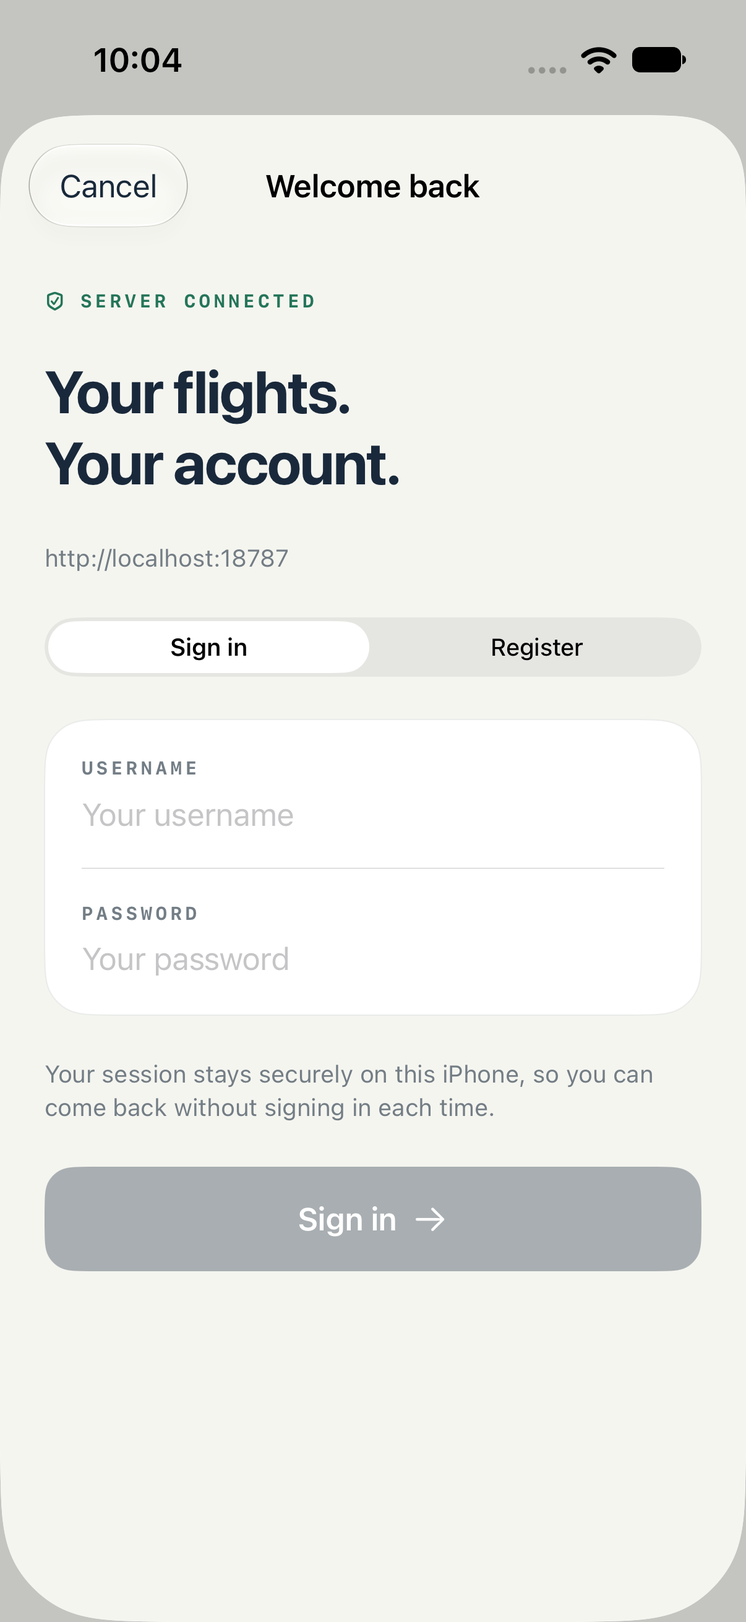
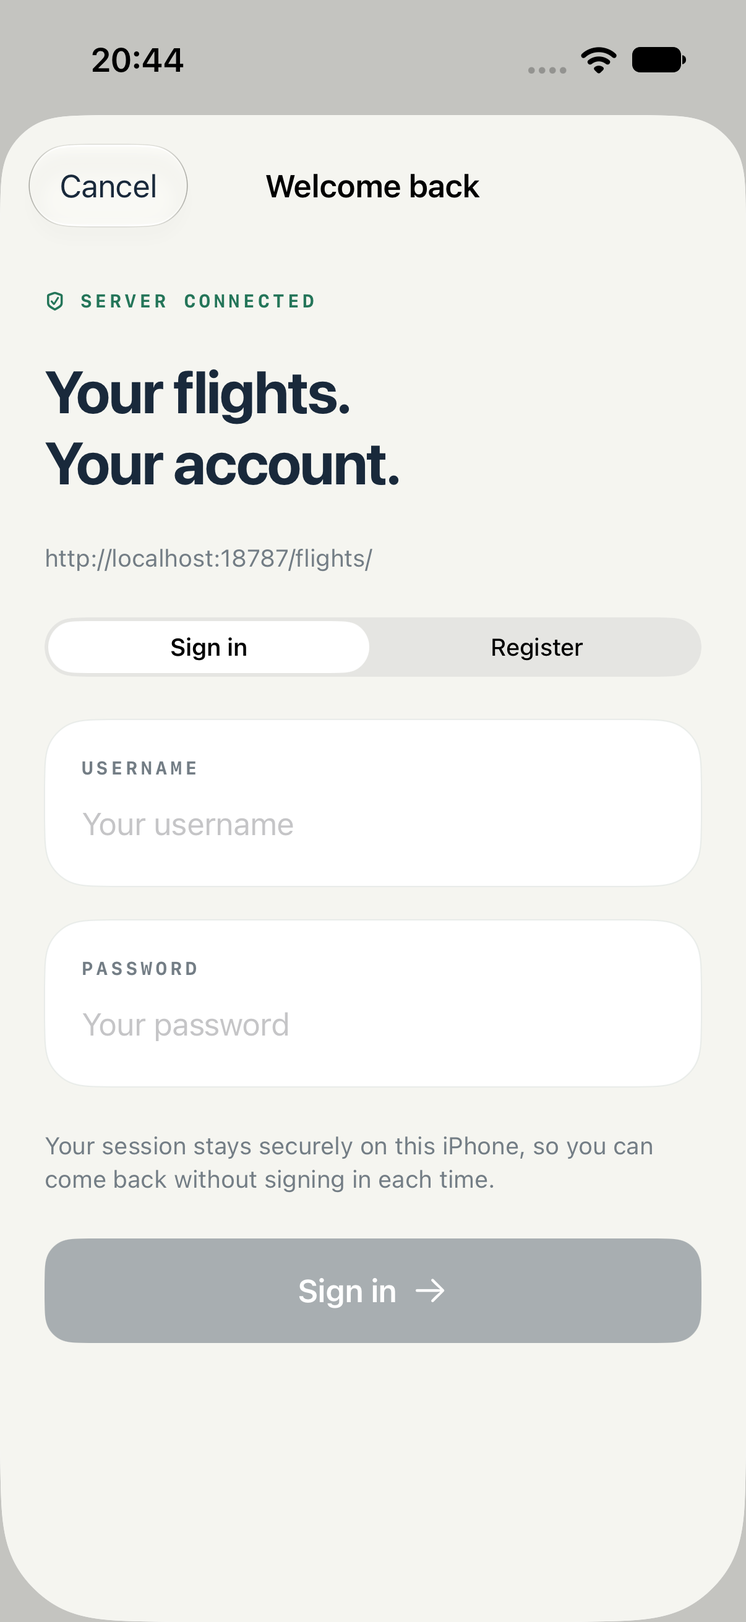
Unify input cards and show airplane feedback during calendar imports

diff --git a/app/FlightDeck/CalendarViews.swift b/app/FlightDeck/CalendarViews.swift
@@ -91,6 +91,9 @@ struct CalendarSuggestionsView: View {
     @Environment(FlightStore.self) private var store
     @Environment(CalendarImportStore.self) private var calendar
     @Environment(\.dismiss) private var dismiss
+    @State private var importingJourneyID: String?
+    @State private var addingAll = false
+    private var busy: Bool { calendar.isImporting || importingJourneyID != nil || addingAll }
     var body: some View {
         NavigationStack {
             ScrollView {
@@ -102,7 +105,7 @@ struct CalendarSuggestionsView: View {
                         Text("No new flights found in the next six months. Already tracked and dismissed flights are excluded.")
                             .font(.subheadline).foregroundStyle(Deck.muted).accessibilityIdentifier("noCalendarFlightSuggestions")
                     } else {
-                        Text("Review your flights below. Dismiss a flight to stop future suggestions. Connections use your calendar’s times.")
+                        Text("Review your flights below. Dismiss a journey to stop future suggestions. Connections use your calendar’s times.")
                             .font(.subheadline).foregroundStyle(Deck.muted)
                     }
                     ForEach(calendar.journeys) { journey in
@@ -114,27 +117,31 @@ struct CalendarSuggestionsView: View {
                                     .font(.caption).foregroundStyle(Deck.muted).accessibilityIdentifier("dismissJourney-\(journey.flights[0].flightNumber)")
                             }
                             ForEach(journey.flights) { flight in
-                                HStack(alignment:.top,spacing:12) {
-                                    VStack(alignment:.leading,spacing:6) {
+                                VStack(alignment:.leading,spacing:6) {
                                         Text(flight.flightNumber).font(.system(size:19,weight:.semibold,design:.monospaced))
                                         Text("To \(flight.destination)").font(.subheadline.weight(.medium))
                                         Text(flight.timeLabel).font(.caption).foregroundStyle(Deck.muted)
                                         Text("\(flight.timeZoneID) · \(flight.calendarTitle)").font(.system(size:10)).foregroundStyle(Deck.muted)
-                                    }
-                                    Spacer(minLength:0)
-                                    Button { calendar.dismiss([flight]) } label: { Image(systemName:"xmark.circle").foregroundStyle(Deck.muted) }
-                                        .accessibilityLabel("Don’t suggest \(flight.flightNumber) again")
-                                        .accessibilityIdentifier("dismissCalendar-\(flight.flightNumber)")
-                                }
+                                }.frame(maxWidth:.infinity,alignment:.leading)
                             }
                             Button {
-                                Task { if await calendar.add([journey],to:store),calendar.suggestions.isEmpty { dismiss() } }
+                                guard !busy else { return }
+                                importingJourneyID = journey.id
+                                Task {
+                                    defer { importingJourneyID = nil }
+                                    if await calendar.add([journey],to:store),calendar.suggestions.isEmpty { dismiss() }
+                                }
                             } label: {
-                                Label(journey.flights.count>1 ? "Add connected trip":"Add flight",systemImage:"plus")
+                                HStack(spacing:8) {
+                                    if importingJourneyID == journey.id { PlaneActivityIndicator() }
+                                    else { Image(systemName:"plus") }
+                                    Text(importingJourneyID == journey.id ? (journey.flights.count>1 ? "Adding trip…":"Adding flight…"):
+                                        (journey.flights.count>1 ? "Add connected trip":"Add flight"))
+                                }
                                     .font(.subheadline.weight(.semibold)).frame(maxWidth:.infinity).padding(14)
                                     .background(Deck.ink,in:RoundedRectangle(cornerRadius:14)).foregroundStyle(.white)
                             }.accessibilityIdentifier("addCalendarJourney-\(journey.flights[0].flightNumber)")
-                        }.deckCard().disabled(calendar.isImporting)
+                        }.deckCard().disabled(busy)
                     }
                     if let error = calendar.error { Text(error).font(.footnote).foregroundStyle(Deck.orange) }
                     if !calendar.suggestions.isEmpty {
@@ -144,20 +151,25 @@ struct CalendarSuggestionsView: View {
                 }.padding(24)
             }.background(Deck.paper).foregroundStyle(Deck.ink)
                 .navigationTitle("Calendar flights").navigationBarTitleDisplayMode(.inline)
-                .toolbar { ToolbarItem(placement:.topBarLeading) { Button(calendar.suggestions.isEmpty ? "Done":"Later") { dismiss() }.disabled(calendar.isImporting) } }
+                .toolbar { ToolbarItem(placement:.topBarLeading) { Button(calendar.suggestions.isEmpty ? "Done":"Later") { dismiss() }.disabled(busy) } }
                 .safeAreaInset(edge:.bottom) {
-                    if calendar.suggestions.count>1 {
+                    if calendar.suggestions.count>1 || addingAll {
                         Button {
+                            guard !busy else { return }
                             let journeys = calendar.journeys
-                            Task { if await calendar.add(journeys,to:store) { dismiss() } }
+                            addingAll = true
+                            Task {
+                                defer { addingAll = false }
+                                if await calendar.add(journeys,to:store) { dismiss() }
+                            }
                         } label: {
                             HStack {
-                                if calendar.isImporting { ProgressView().tint(.white) }
-                                Text(calendar.isImporting ? "Adding flights…":"Add all \(calendar.suggestions.count) flights").fontWeight(.semibold)
+                                if addingAll { PlaneActivityIndicator() }
+                                Text(addingAll ? "Adding flights…":"Add all \(calendar.suggestions.count) flights").fontWeight(.semibold)
                             }.frame(maxWidth:.infinity).padding(18).foregroundStyle(.white).background(Deck.ink,in:RoundedRectangle(cornerRadius:16))
-                        }.disabled(calendar.isImporting).padding(20).background(Deck.paper).accessibilityIdentifier("addAllCalendarFlights")
+                        }.disabled(busy).padding(20).background(Deck.paper).accessibilityIdentifier("addAllCalendarFlights")
                     }
-                }.interactiveDismissDisabled(calendar.isImporting)
+                }.interactiveDismissDisabled(busy)
         }
     }
 }

diff --git a/app/FlightDeckUITests/FlightDeckUITests.swift b/app/FlightDeckUITests/FlightDeckUITests.swift
@@ -148,7 +148,7 @@ final class FlightDeckUITests: XCTestCase {
     }
     func testCalendarSuggestionsDismissalImportAndManualSearchPersist() {
         let app = XCUIApplication()
-        app.launchArguments = ["--uitesting","--uitesting-calendar","--uitesting-calendar-reset"];app.launch()
+        app.launchArguments = ["--uitesting","--uitesting-calendar","--uitesting-calendar-reset","--uitesting-calendar-loading"];app.launch()
         XCTAssertTrue(app.buttons["addFlight"].waitForExistence(timeout:10))
         app.tabBars.buttons["Settings"].tap()
         let settings = app.buttons["calendarImportSettings"]
@@ -165,14 +165,20 @@ final class FlightDeckUITests: XCTestCase {
         app.buttons["reviewCalendarSuggestions"].tap()
         XCTAssertTrue(app.staticTexts["2 CONNECTED FLIGHTS"].waitForExistence(timeout:5))
         capture("Review calendar connections",app)
-        let declined = app.buttons["dismissCalendar-LH1189"]
+        XCTAssertFalse(app.buttons["dismissCalendar-LH2055"].exists)
+        let declined = app.buttons["dismissJourney-LH1189"]
         for _ in 0..<4 where !declined.isHittable { app.swipeUp() }
         XCTAssertTrue(declined.isHittable);declined.tap()
         let add = app.buttons["addCalendarJourney-LH2055"]
         for _ in 0..<4 where !add.isHittable { app.swipeDown() }
         add.tap()
+        XCTAssertTrue(add.label.contains("Adding trip"))
+        XCTAssertFalse(add.isEnabled)
+        XCTAssertFalse(app.buttons["dismissJourney-LH2055"].isEnabled)
+        capture("Calendar import in progress",app)
+        XCTAssertTrue(add.waitForNonExistence(timeout:10))
         XCTAssertTrue(app.buttons["addFlight"].waitForExistence(timeout:10))
-        XCTAssertFalse(app.buttons["reviewCalendarSuggestions"].exists)
+        XCTAssertTrue(app.buttons["reviewCalendarSuggestions"].waitForNonExistence(timeout:10))
         app.terminate()
         app.launchArguments = ["--uitesting-preserve","--uitesting-calendar"];app.launch()
         XCTAssertTrue(app.buttons["addFlight"].waitForExistence(timeout:10))
@@ -192,7 +198,30 @@ final class FlightDeckUITests: XCTestCase {
         search.tap()
         XCTAssertTrue(app.staticTexts["LH1189"].waitForExistence(timeout:10))
         XCTAssertFalse(app.staticTexts["LH2055"].exists)
-        app.buttons["dismissCalendar-LH1189"].tap()
+        app.buttons["dismissJourney-LH1189"].tap()
+        app.buttons["Done"].tap()
+    }
+    func testCalendarBulkImportShowsProgressAndDisablesActions() {
+        let app = XCUIApplication()
+        app.launchArguments = ["--uitesting","--uitesting-calendar","--uitesting-calendar-reset","--uitesting-calendar-loading"];app.launch()
+        XCTAssertTrue(app.buttons["addFlight"].waitForExistence(timeout:10))
+        app.tabBars.buttons["Settings"].tap()
+        let settings = app.buttons["calendarImportSettings"]
+        for _ in 0..<3 where !settings.isHittable { app.swipeUp() }
+        settings.tap()
+        XCTAssertTrue(app.switches["calendar-fixture"].waitForExistence(timeout:10))
+        app.switches["calendar-fixture"].tap()
+        app.buttons["searchCalendarFlights"].tap()
+        let add = app.buttons["addAllCalendarFlights"]
+        XCTAssertTrue(add.waitForExistence(timeout:10))
+        add.tap()
+        XCTAssertTrue(add.label.contains("Adding flights"))
+        XCTAssertFalse(add.isEnabled)
+        XCTAssertFalse(app.buttons["dismissJourney-LH2055"].isEnabled)
+        capture("Bulk calendar import in progress",app)
+        XCTAssertTrue(add.waitForNonExistence(timeout:10))
+        app.buttons["searchCalendarFlights"].tap()
+        XCTAssertTrue(app.staticTexts["noCalendarFlightSuggestions"].waitForExistence(timeout:10))
         app.buttons["Done"].tap()
     }
     func testPublishedScheduleShowsRouteWithoutClaimingLiveStatus() {

diff --git a/app/FlightDeck/AccountViews.swift b/app/FlightDeck/AccountViews.swift
@@ -34,20 +34,17 @@ struct AccountAccessView: View {
                                 }.pickerStyle(.segmented).accessibilityIdentifier("accountMode")
                             }
                             VStack(alignment:.leading,spacing:18) {
-                                VStack(alignment:.leading,spacing:8) {
-                                    Text("USERNAME").eyebrow().foregroundStyle(Deck.muted)
+                                DeckField("USERNAME") {
                                     TextField("Your username",text:$username).textContentType(.username)
                                         .textInputAutocapitalization(.never).autocorrectionDisabled()
                                         .focused($focused,equals:"username").accessibilityIdentifier("accountUsername")
-                                }
-                                Divider()
-                                VStack(alignment:.leading,spacing:8) {
-                                    Text("PASSWORD").eyebrow().foregroundStyle(Deck.muted)
+                                }.deckCard().onTapGesture { focused = "username" }
+                                DeckField("PASSWORD") {
                                     SecureField(registering ? "At least 12 characters":"Your password",text:$password)
                                         .textContentType(.password).textInputAutocapitalization(.never).autocorrectionDisabled()
                                         .focused($focused,equals:"password").accessibilityIdentifier("accountPassword")
-                                }
-                            }.deckCard()
+                                }.deckCard().onTapGesture { focused = "password" }
+                            }
                             if registering {
                                 Text("Choose a username with 3–32 letters, numbers, dots, underscores or hyphens, and a password with 12–128 characters. This account belongs to this server.")
                                     .font(.footnote).foregroundStyle(Deck.muted)
@@ -126,11 +123,10 @@ struct APIKeyForm: View {
                     Link("Open My AeroAPI ↗",destination:URL(string:"https://www.flightaware.com/aeroapi/portal/")!)
                         .font(.system(size:13,weight:.semibold)).foregroundStyle(Deck.ink)
                 }.deckCard()
-                VStack(alignment:.leading,spacing:10) {
-                    Text("AEROAPI KEY").eyebrow().foregroundStyle(Deck.muted)
+                DeckField("AEROAPI KEY") {
                     SecureField("Paste your API key",text:$key).textInputAutocapitalization(.never).autocorrectionDisabled()
                         .focused($focused).accessibilityIdentifier("providerAPIKey")
-                }.deckCard()
+                }.deckCard().onTapGesture { focused = true }
                 Label("Your key is encrypted on \(URL(string:store.address)?.host ?? "your server") and is never sent back to the app. Use a server operator you trust.",systemImage:"lock.shield")
                     .font(.footnote).foregroundStyle(Deck.muted).fixedSize(horizontal:false,vertical:true)
                 Text("API requests use your own FlightAware account. FlightDeck keeps a conservative monthly safety budget; replacing a key does not reset usage.")

diff --git a/app/FlightDeck/StartView.swift b/app/FlightDeck/StartView.swift
@@ -46,13 +46,13 @@ struct ServerConnectionForm: View {
     @FocusState private var focused: Bool
     var body: some View {
         VStack(alignment:.leading,spacing:18) {
-            Text("SERVER URL").eyebrow().foregroundStyle(Deck.muted)
-            TextField("Server URL",text:$address,prompt:Text("Server URL").foregroundStyle(Color(uiColor:.placeholderText)))
-                .textFieldStyle(.roundedBorder).font(.body).frame(minHeight:44)
-                .textContentType(.URL).keyboardType(.URL)
-                .focused($focused).textInputAutocapitalization(.never).autocorrectionDisabled()
-                .accessibilityLabel("Server URL").accessibilityIdentifier("serverAddress")
-                .submitLabel(.go).onSubmit { connect() }
+            DeckField("SERVER URL") {
+                TextField("Server URL",text:$address,prompt:Text("Server URL").foregroundStyle(Color(uiColor:.placeholderText)))
+                    .font(.body).textContentType(.URL).keyboardType(.URL)
+                    .focused($focused).textInputAutocapitalization(.never).autocorrectionDisabled()
+                    .accessibilityLabel("Server URL").accessibilityIdentifier("serverAddress")
+                    .submitLabel(.go).onSubmit { connect() }
+            }.deckCard().onTapGesture { focused = true }
             Button { connect() } label: {
                 HStack {
                     if connecting { ProgressView().tint(.white) }
@@ -64,7 +64,7 @@ struct ServerConnectionForm: View {
             if let error { Text(error).font(.footnote).foregroundStyle(Deck.orange) }
             Text("Connect to your own server or one you trust, then sign in or create an account. Ports and paths such as /flights are supported. HTTPS is added if omitted; a private certificate must be trusted on your phone.")
                 .font(.system(size:11)).foregroundStyle(Deck.muted).fixedSize(horizontal:false,vertical:true)
-        }.deckCard()
+        }
             .sheet(isPresented:$showingLogin,onDismiss:{ store.enterAccount() }) {
                 if let server { AccountAccessView(address:address,server:server) }
             }

diff --git a/app/FlightDeck/Design.swift b/app/FlightDeck/Design.swift
@@ -17,6 +17,35 @@ extension View {
     func eyebrow() -> some View { self.font(.system(size:10,weight:.bold,design:.monospaced)).tracking(1.8) }
 }
 
+struct DeckField<Content: View>: View {
+    let title: String
+    let content: Content
+    init(_ title: String, @ViewBuilder content: () -> Content) {
+        self.title = title;self.content = content()
+    }
+    var body: some View {
+        VStack(alignment:.leading,spacing:10) {
+            Text(title).eyebrow().foregroundStyle(Deck.muted)
+            content.textFieldStyle(.plain).frame(minHeight:28,alignment:.leading)
+        }.contentShape(Rectangle())
+    }
+}
+
+struct PlaneActivityIndicator: View {
+    @Environment(\.accessibilityReduceMotion) private var reduceMotion
+    var body: some View {
+        TimelineView(.animation(minimumInterval:1.0/30,paused:reduceMotion)) { context in
+            let phase = reduceMotion ? 0.5:context.date.timeIntervalSinceReferenceDate.truncatingRemainder(dividingBy:1.6)/1.6
+            ZStack(alignment:.leading) {
+                Capsule().fill(.white.opacity(0.25)).frame(width:38,height:2).offset(y:5)
+                Image(systemName:"airplane").font(.system(size:15,weight:.semibold))
+                    .rotationEffect(.degrees(-12)).offset(x:phase*25,y:3-phase*7)
+                    .opacity(reduceMotion ? 1:min(1,min(phase*7,(1-phase)*7)))
+            }.foregroundStyle(.white).frame(width:44,height:22)
+        }.accessibilityHidden(true)
+    }
+}
+
 struct RouteLine: View {
     var color: Color = Deck.muted
     var body: some View {

diff --git a/app/FlightDeck/AddTripView.swift b/app/FlightDeck/AddTripView.swift
@@ -42,13 +42,12 @@ struct AddTripView: View {
                                         .accessibilityLabel("Remove flight")
                                 }
                             }
-                            VStack(alignment:.leading,spacing:8) {
-                                Text("FLIGHT NUMBER").eyebrow().foregroundStyle(Deck.muted)
+                            DeckField("FLIGHT NUMBER") {
                                 TextField("LX1055",text:$leg.flightNumber).font(.system(size:23,weight:.medium,design:.monospaced))
                                     .focused($focusedField,equals:"number-\(leg.id)")
                                     .textInputAutocapitalization(.characters).autocorrectionDisabled()
                                     .accessibilityIdentifier("flightNumber\(legs.firstIndex(where:{$0.id == leg.id}) ?? 0)")
-                            }
+                            }.onTapGesture { focusedField = "number-\(leg.id)" }
                             Divider()
                             DatePicker("Departure date",selection:Binding(get:{FlightTime.dayDate(leg.departureDate)},set:{leg.departureDate = FlightTime.day($0)}),displayedComponents:.date)
                                 .font(.subheadline).tint(Deck.ink)

diff --git a/app/FlightDeck/CalendarImportStore.swift b/app/FlightDeck/CalendarImportStore.swift
@@ -123,7 +123,11 @@ final class CalendarImportStore {
         guard !isImporting,let target = profile,target == store.calendarProfileID else { return false }
         isImporting = true;error = nil
         defer { if profile == target { isImporting = false } }
+        await Task.yield()
         do {
+            if fixture,ProcessInfo.processInfo.arguments.contains("--uitesting-calendar-loading") {
+                try await Task.sleep(for:.seconds(2))
+            }
             for journey in journeys {
                 guard profile == target,store.calendarProfileID == target else { return false }
                 try await store.add(journey.payload)

diff --git a/VALIDATION.md b/VALIDATION.md
@@ -45,6 +45,14 @@ Physical-device permission prompts and real Google Calendar sync will be checked
 
 ## Server URL entry
 
-- The connection page starts with an empty native rounded-border text field, a short system-grey **Server URL** placeholder, an explicit accessibility label and the URL keyboard. It does not insert a sample URL or prefill the field when a new connection page opens.
+- The connection page starts with an empty labelled input card, a short system-grey **Server URL** placeholder, an explicit accessibility label and the URL keyboard. It does not insert a sample URL or prefill the field when a new connection page opens.
 - Two targeted native UI checks pass (52.61 seconds). They verify the empty field and disabled connection button, tapping to open the keyboard, entering an HTTPS address with a port and `/flights` prefix, clearing back to the placeholder, empty state after restart, and the existing explicit demo/start-page navigation.
 - The updated ARM64 build is signed for the approved development team and passes strict signature verification with a profile containing the target iPhone.
+
+## Consistent inputs and calendar import feedback
+
+- Server URL, username, password, API key and manual flight-number entry use the same labelled field component. Standalone fields use the API-key form's rounded card treatment; flight numbers keep their larger monospaced type inside the existing flight card. Tapping a field's card or label focuses its input.
+- Calendar suggestions retain one **Dismiss** action per suggested journey. Redundant per-flight × controls are removed; remembered refusals and reset behavior are unchanged.
+- A row import immediately becomes **Adding flight…** or **Adding trip…** with a moving plane. Bulk import has the same feedback and keeps its button visible until completion. Competing import/dismiss actions and sheet dismissal are disabled, and errors restore the controls for retry. The animation respects Reduce Motion.
+- Four targeted native flows pass across the validation runs: account/key/usage/flight entry and saved sessions (130.56 s), editable empty server input (27.59 s), bulk import feedback and a clean rescan (25.01 s), and single import feedback, remembered dismissal, restart, manual scan and reset (69.56 s). A slow operation is simulated only in the synthetic calendar test fixture; real imports have no artificial delay.
+- The updated app is signed, installed and launched on the physical iPhone as an in-place update. All automated provider/calendar checks use mocks; existing device accounts and real calendars were not reset or inspected.

diff --git a/docs/SETUP.md b/docs/SETUP.md
@@ -75,7 +75,7 @@ Open **Settings → Calendar import**, allow calendar access, and select calenda
 - **Search calendars now** performs a manual search regardless of the automatic setting. Both paths examine the next 180 days, including flights already in progress, and exclude cancelled/all-day events, completed flights, already tracked flights, and dismissed suggestions.
 - Titles such as `Flight to Frankfurt (LH 1189)` are recognized case-insensitively. Flight numbers are normalized; departure dates use the event timezone, falling back to the phone timezone for events without one. The review shows calendar times and the timezone used.
 - New flights form a connected trip if the next departure is at or after the previous arrival and strictly less than 12 hours later. Overlapping flights and a gap of exactly 12 hours remain separate. Groups are limited to eight legs, matching the server limit. This uses calendar timing as a heuristic, without confirming airport continuity.
-- Review and add a connected trip, a single flight, or all suggested journeys. **Dismiss** or a flight’s × button remembers the normalized flight number and departure date. Both automatic and manual searches respect dismissals across app restarts. **Later** keeps suggestions for review. **Reset dismissed suggestions** makes them eligible again.
+- Review and add a connected trip, a single flight, or all suggested journeys. **Dismiss** remembers the normalized flight numbers and departure dates in that suggestion. Both automatic and manual searches respect dismissals across app restarts. **Later** keeps suggestions for review. **Reset dismissed suggestions** makes them eligible again. Import buttons immediately change to an animated plane and **Adding…** label; other import/dismiss actions remain disabled until the request finishes.
 - Calendar selection, automatic-scan preference and hashed dismissal identities stay on the device and are partitioned by server/account; demo preferences are separate. Source event titles, calendar names, descriptions and source event identifiers are not sent to the server. Accepting a suggestion sends only the flight numbers, departure dates, offset-aware calendar flight times, timezone identifier and an opaque import identity.
 - Importing does not rearrange existing trips or automatically edit/delete already tracked flights after a calendar change. Imported calendar times are user-provided itinerary data. AeroAPI still supplies flight status, routes and aircraft data under the existing budget gate.
 

diff --git a/README.md b/README.md
@@ -46,6 +46,7 @@ You can also find flights in calendars already synced with iOS Calendar:
 - Select the calendars to search in **Settings → Calendar import**.
 - Enable **Automatically suggest flights**, or use **Search calendars now** whenever you want.
 - Review suggestions before adding them. Dismissed flights stay dismissed for that account on that device, including after restarting the app.
+- Import buttons show an animated plane while adding flights and prevent duplicate taps until the request finishes.
 - Calendar entries such as `Flight to Frankfurt (LH 1189)` supply the flight number and date. Flights departing at or after the previous arrival and less than 12 hours later are suggested as a connected trip.
 
 <table>
@@ -108,7 +109,7 @@ The server listens at `127.0.0.1:8787`. For a physical phone, place it behind yo
     <th>Bring your own API key</th>
   </tr>
   <tr>
-    <td><a href="previews/start.png"><img src="previews/start.png" width="250" alt="The start page with an empty, outlined Server URL input, Connect to server button and secondary Explore the demo option"></a></td>
+    <td><a href="previews/start.png"><img src="previews/start.png" width="250" alt="The start page with an empty Server URL input in a labelled card, Connect to server button and secondary Explore the demo option"></a></td>
     <td><a href="previews/api-key-setup.png"><img src="previews/api-key-setup.png" width="250" alt="The AeroAPI setup guide with account instructions, provider links and a secure key-entry field"></a></td>
   </tr>
 </table>
